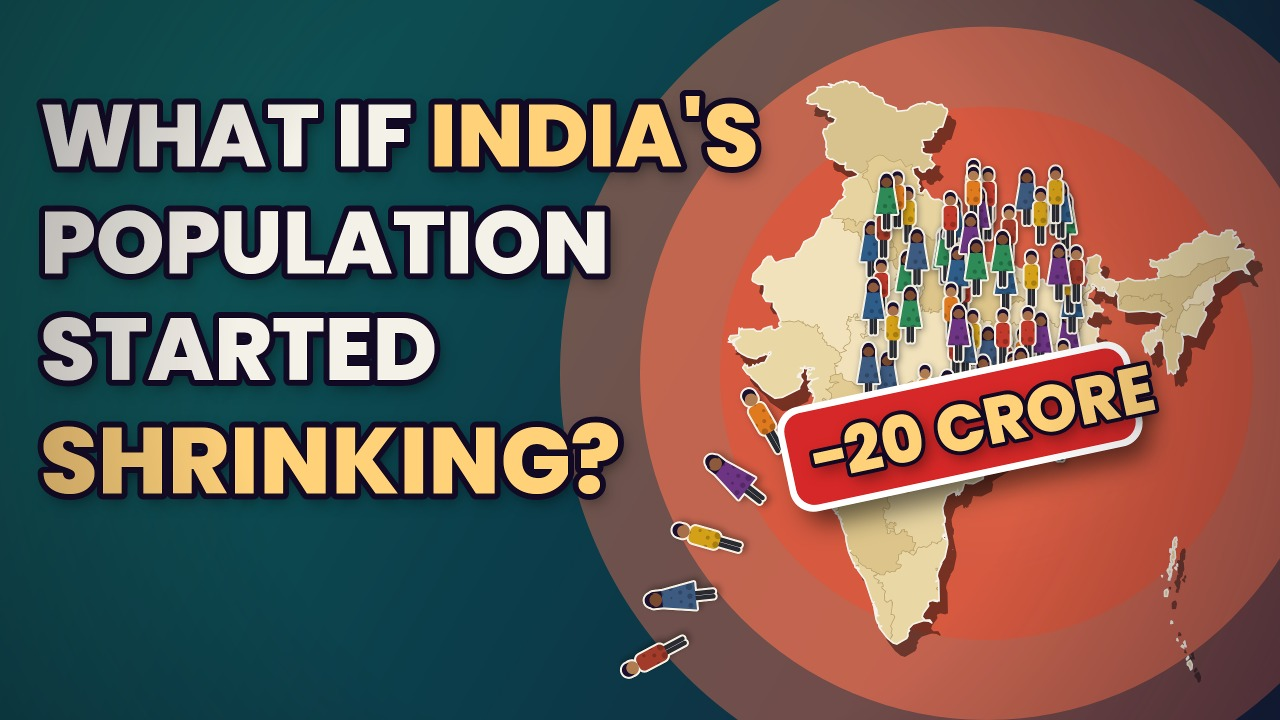
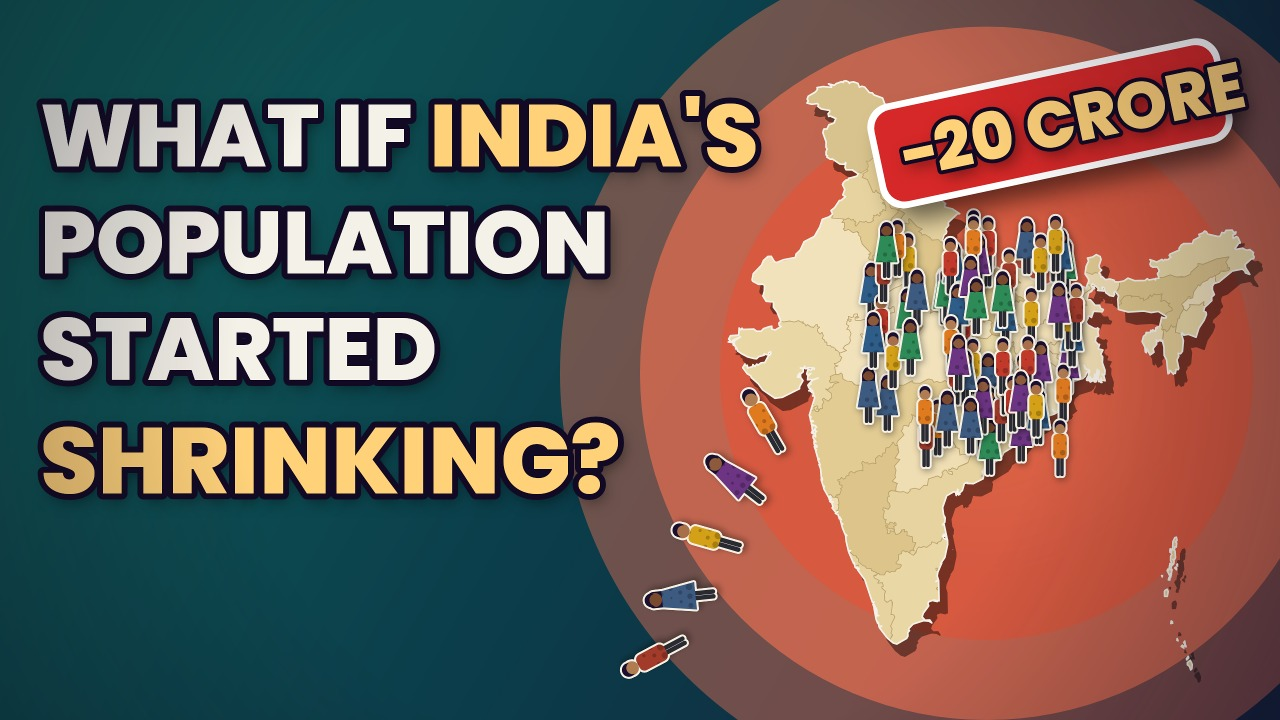
india-population-shrinking: thumbnail sticker above Nepal
Claude-Session: https://claude.ai/code/session_01WCp4uQEYis8QAmCexfaYWR

Changed region(s): [[0.5938, 0.0306, 1.0, 0.7333]]

diff --git a/runs/india-population-shrinking/video/thumbs.py b/runs/india-population-shrinking/video/thumbs.py
@@ -44,7 +44,7 @@ def thumb(c):
     # a crowd on the map, thinning towards the south-east edge where people fall off
     for i in range(70):
         x = cx + (rng(i, 2) - 0.5) * k * 12 - 20
-        y = cy + (rng(i, 3) - 0.5) * k * 14 - 60
+        y = cy + (rng(i, 3) - 0.5) * k * 12 - 10
         cutout(c, lambda kk, x=x, y=y, i=i: figure(kk, x, y, 0.22, i=i, female=i % 2 == 0), border=3, shadow=(2, 3))
     for i in range(5):
         x = cx - 330 - i * 40
@@ -52,7 +52,7 @@ def thumb(c):
         c.save(); c.rotate(-30 - i * 22, x, y - 40)
         cutout(c, lambda kk, x=x, y=y, i=i: figure(kk, x, y, 0.28, i=i + 3, female=i % 2 == 1), border=3, shadow=(3, 5))
         c.restore()
-    sx, sy, sw, shh = cx - 300, cy + 10, 520, 140
+    sx, sy, sw, shh = 1315, 115, 520, 140
     c.save(); c.rotate(-12, sx + sw / 2, sy + shh / 2)
     sh = paint("#000000", 0.55); sh.setMaskFilter(skia.MaskFilter.MakeBlur(skia.kNormal_BlurStyle, 18))
     c.drawRRect(skia.RRect.MakeRectXY(skia.Rect(sx + 8, sy + 22, sx + sw + 18, sy + shh + 32), 36, 36), sh)
